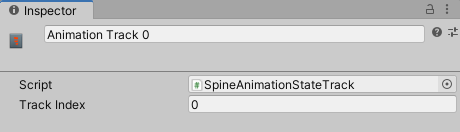
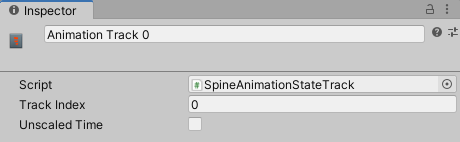
[unity] Updated UPM package documentation and image to added track property `Unscaled Time` of previous commit.

diff --git a/spine-unity/Modules/com.esotericsoftware.spine.timeline/Documentation/README.md b/spine-unity/Modules/com.esotericsoftware.spine.timeline/Documentation/README.md
@@ -34,6 +34,8 @@ These track types can be used to set animations at the AnimationState of the tar
 - *Track Index.* The target AnimationState track index to set animations at. Do not forget to set this value accordingly when using multiple timeline tracks.
 > **Important Note:** Currently it is required to order the timeline tracks with base track at the top and overlay tracks below, otherwise the Editor Preview will display incorrect results.
 
+- *Unscaled Time.* Whenever starting a new animation clip of this track, `SkeletonAnimation.UnscaledTime` (or `SkeletonGraphic.UnscaledTime` respectively) will be set to this value. This allows you to play back Timeline clips either in normal game time or unscaled game time. Note that `PlayableDirector.UpdateMethod` is ignored and replaced by this property, which allows more fine-granular control per Timeline track.
+
 ##### Spine Animation State Clip
 
 You can add a `Spine Animation State Clip` to a `SkeletonAnimation Track` (or `SkeletonGraphic Track`) by dragging an `AnimationReferenceAsset` onto a Timeline track. See the [SkeletonData - Preview](#Preview) section on how to generate `AnimationReferenceAssets` for a `SkeletonDataAsset`.
